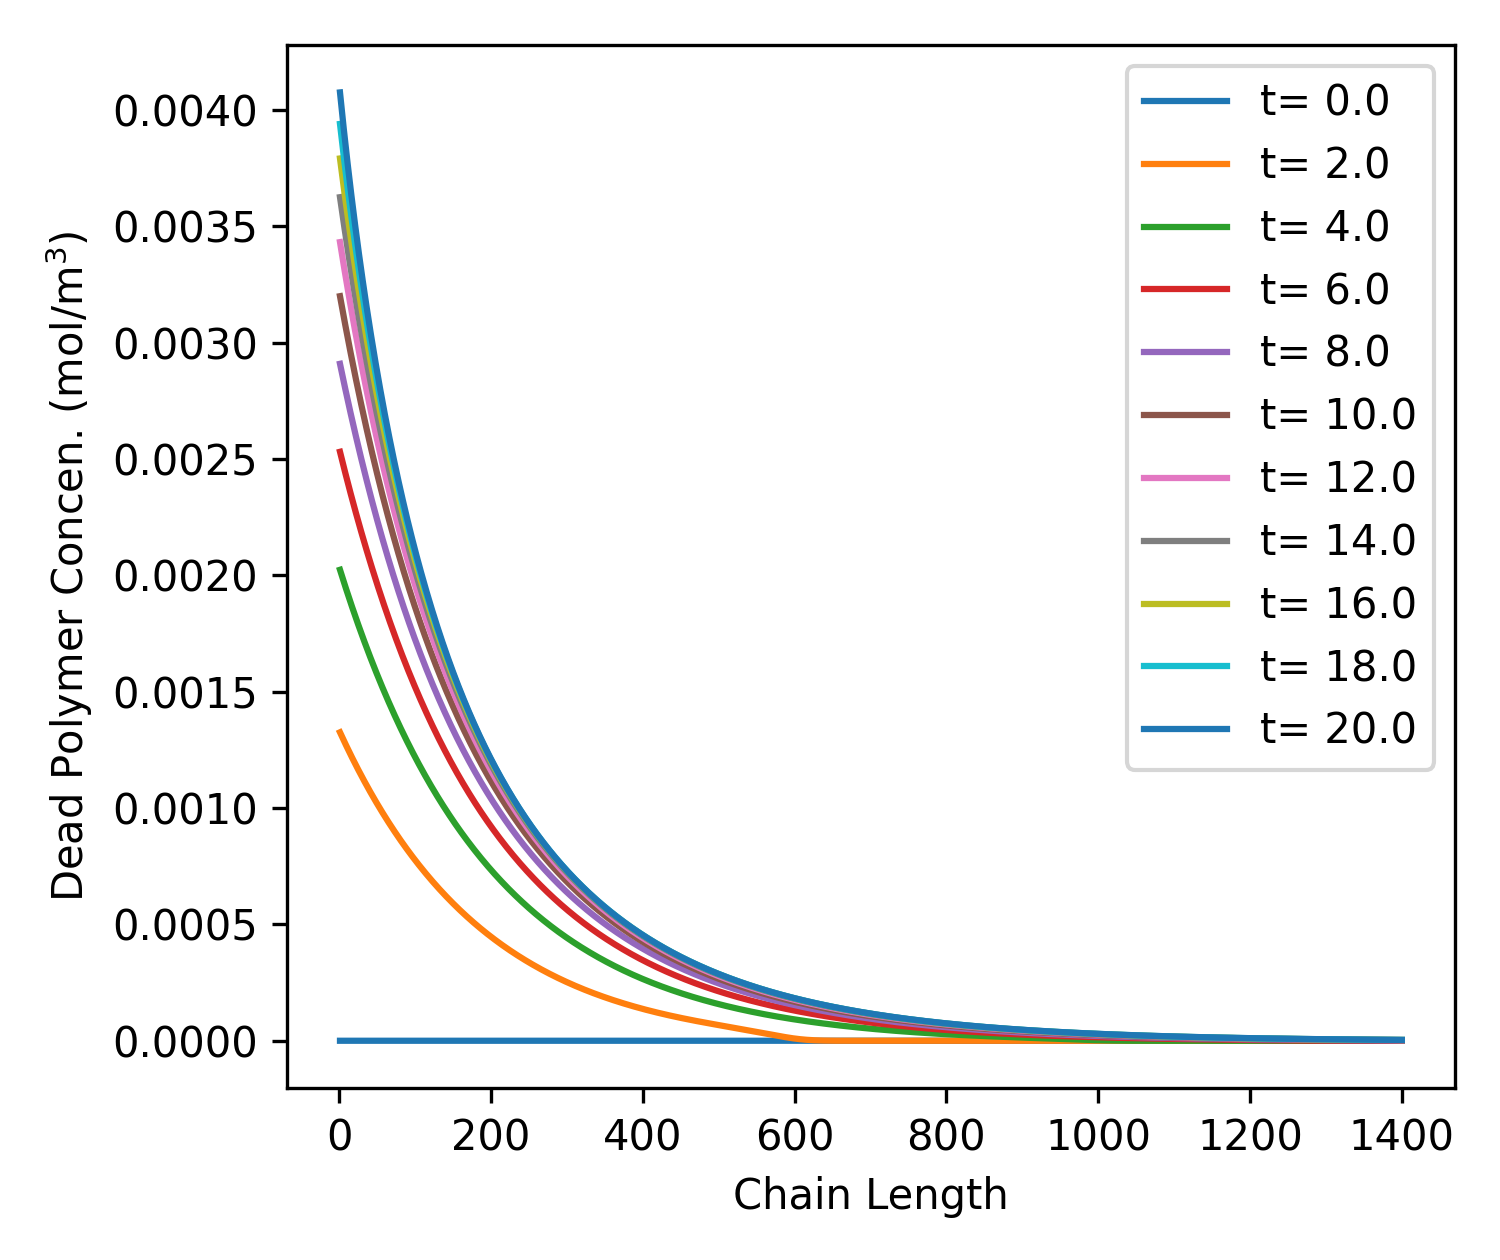
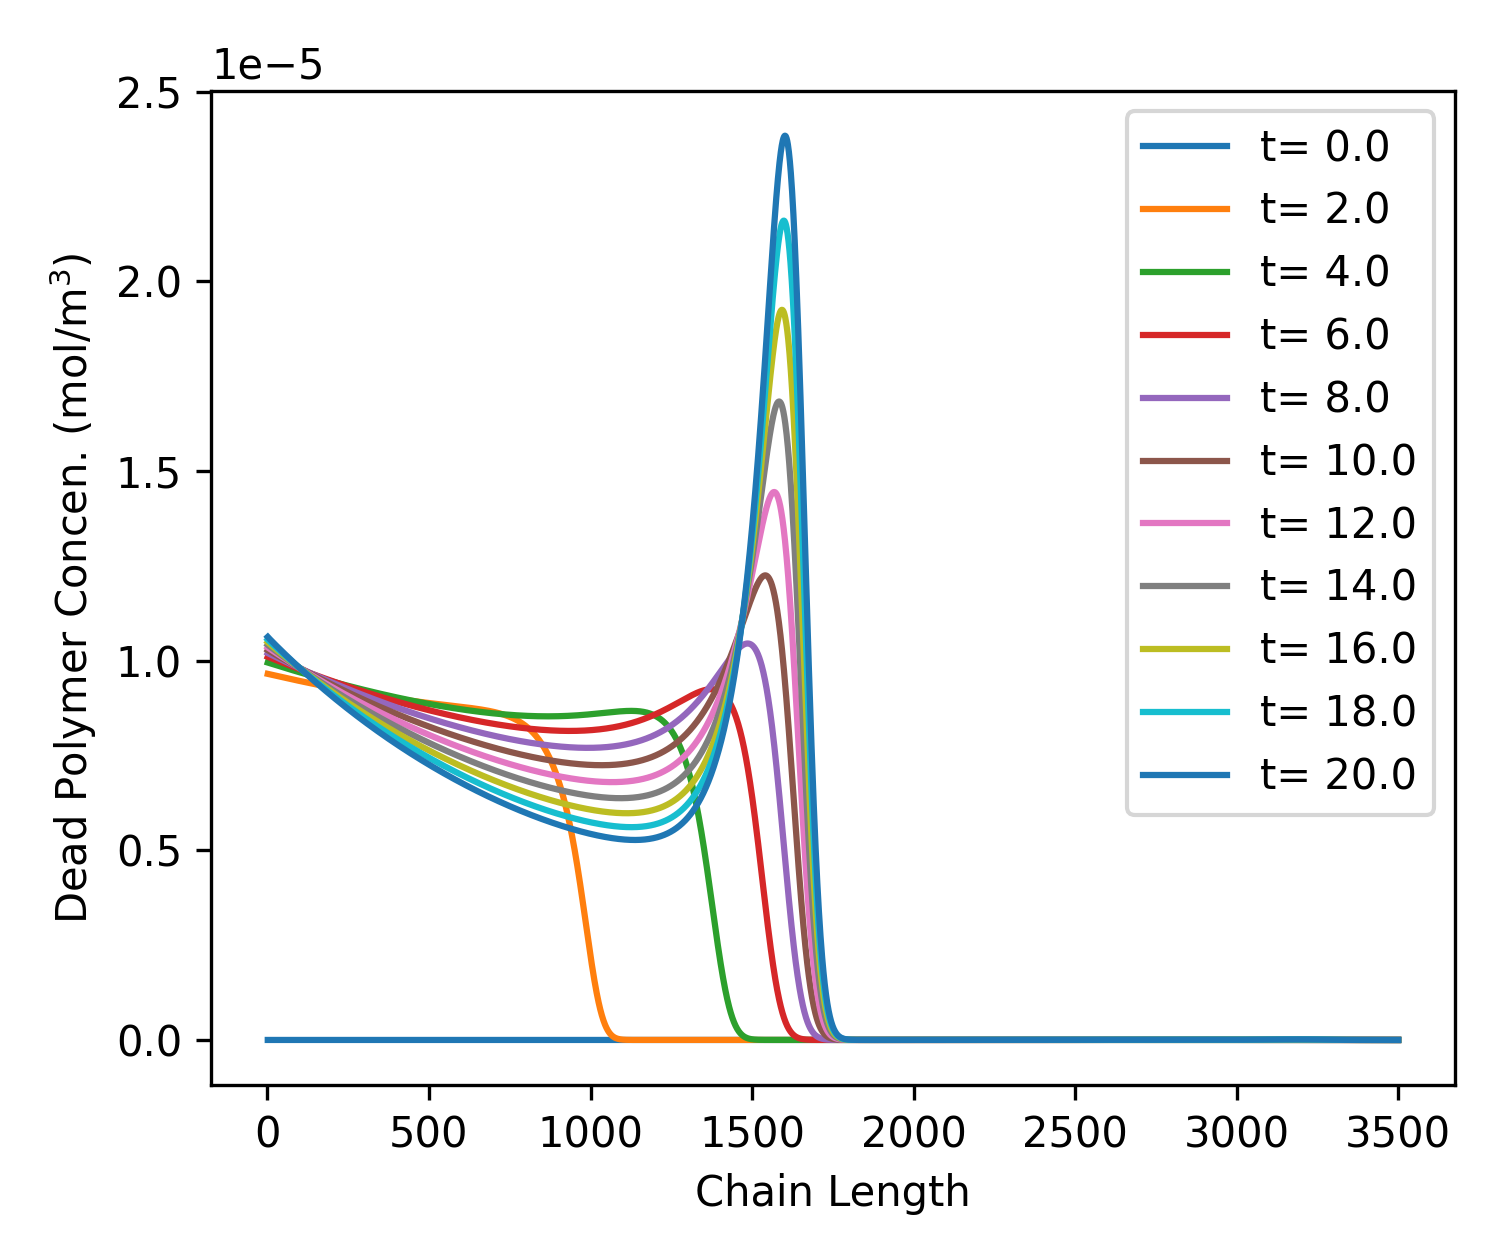
commiting

Changed region(s): [[0.0307, 0.031, 0.9813, 0.9595]]

diff --git a/DetailPolymeriation/step4_termination_P_k_condition_v02.py b/DetailPolymeriation/step4_termination_P_k_condition_v02.py
@@ -1,0 +1,134 @@
+import numpy as np
+import matplotlib.pyplot as plt 
+from scipy. integrate import odeint
+import scipy.sparse as sp
+
+def build_termination_operator(N, k_tc=1.0):
+    """Constant [N x N^2] sparse operator T with D = T @ vec(PP_mat).
+
+    C-order flatten => PP_mat[ii, jj] sits at column ii * N + jj.
+    Only the lower triangle (ii >= jj) within range (ii + jj + 2 <= N) maps to D;
+    the remaining lower-triangle entries are the 'too_high' overflow.
+    """
+    ii, jj = np.indices((N, N))
+    s = ii + jj
+
+    valid = (ii >= jj) & (s + 2 <= N)
+    rows = s[valid] + 1                         # target D bin
+    cols = ii[valid] * N + jj[valid]            # column in vec(PP_mat)
+    data = np.full(rows.shape, k_tc, dtype=float)
+
+    return sp.csr_matrix((data, (rows, cols)), shape=(N, N * N))
+
+k_d = 1.0E1
+k_p = 4E0
+k_trm = 3E-4
+k_trp = 3E-4
+k_tc = 1.0E-4
+k_td = 5.0E-4
+
+N_max = 3500
+mat_min_1 = np.diag(np.ones([N_max-1]),-1)
+#print(mat_min_1) 
+mat_N = np.arange(1,N_max+0.1)
+
+# ----- Build the operator ONCE ------------------------------------------
+T = build_termination_operator(N_max, k_tc)
+
+def model(y,t):
+    I = y[0]
+    M = y[1]
+    P = y[2:2+N_max]
+    D = y[2+N_max:]
+    P_vec = P.reshape(-1, 1)                     # [N_max, 1] column vector
+
+    lamb0 = np.sum(P)
+    #mu0 = np.sum(D)
+    mu1 = np.sum(D*mat_N)
+    # Chain transfer to monomer reaction
+    r_trm = k_trm*M*P # r_trm is a vector with size of [N_max,]
+    r_trm_sum = np.sum(r_trm)
+    # Chain transfer between dead and active polymers
+    r_trp_P = k_trp*P*mu1 # rxn consuming P_i (r_trp_P has size of [N_max,]
+    r_trp_D = k_trp*lamb0*D*mat_N
+
+    P_min_1 = mat_min_1@P # P_(i-1) {=polymer i-1} P_min_1 is also a vector with size of [N_max,]
+    #print(P_min_1)
+    dIdt = -k_d*I
+    # Monomer consumption: radical to P1 & propagation
+    dMdt = -2*k_d*I - k_p*M*lamb0 -r_trm_sum
+    
+    # Active polymer
+    # General (propagation - chain transfer to monomer)
+    dPdt = k_p*M*(P_min_1 - P) - r_trm -r_trp_P + r_trp_D + k_tc*lamb0*P - k_td*lamb0*P
+    # P1 from radical to P1
+    dPdt[0] = 2*k_d*I -k_p*M*(P[0])+ r_trm_sum -r_trp_P[0]+r_trp_D[0] + k_tc*lamb0*P[0] -k_td*lamb0*P[0]
+    
+    PP_mat = P_vec @ P_vec.T
+
+    # Dead polymer
+    dDdt = r_trm+r_trp_P -r_trp_D + T@PP_mat.reshape(-1) + k_td*lamb0*P
+    
+    dydt = np.concatenate([[dIdt, dMdt,], dPdt, dDdt])
+    return dydt
+
+I0 = 6E-2
+M0 = 190
+y0 = np.zeros([2*N_max+2,])
+y0[0] = I0
+y0[1] = M0
+
+y_ret_test = model(y0,0)
+#print(y_ret_test)
+t_dom = np.linspace(0,20,1001)
+y_res = odeint(model, y0, t_dom)
+
+P_list = []
+D_list = []
+plt.figure(figsize = [5,4.2], dpi=200)
+p_index = np.arange(1,N_max+0.5)
+for yy,tt in zip(y_res[::100,:], t_dom[::100]): 
+    pp = yy[2:N_max+2]
+    dd = yy[N_max+2 : 2*N_max+2]
+    P_list.append(pp)
+    D_list.append(dd)
+    plt.plot(p_index, pp, 
+             label='t = {0:.1f}'.format(tt))
+plt.xlabel('Chain Length')
+plt.ylabel('Active Polymer Concen. (mol/m$^{3}$)')
+plt.legend()
+plt.tight_layout()
+plt.savefig('Fig1_ActivePoly.png', dpi=300)
+#plt.show()
+
+print('D_list = ', len(D_list))
+
+plt.figure(figsize = [5,4.2], dpi=200)
+for dd,tt in zip(D_list, t_dom[::100]):
+    plt.plot(p_index, dd,
+             label='t= {0:.1f}'.format(tt))
+plt.xlabel('Chain Length')
+plt.ylabel('Dead Polymer Concen. (mol/m$^{3}$)')
+plt.legend()
+plt.tight_layout()
+plt.savefig('Fig2_DeadPoly.png',dpi=300)
+
+# Overall polymer
+P_res_mat = np.matrix(P_list)
+D_res_mat = np.matrix(D_list)
+
+PD_res = P_res_mat + D_res_mat
+
+plt.figure(figsize = [5,4.2], dpi=200)
+for pdpd, tt in zip(PD_res,t_dom[::100]):
+    plt.plot(p_index, np.array(pdpd.T[:,0]),
+             label='t= {0:.1f}'.format(tt))
+plt.xlabel('Chain Length')
+plt.ylabel('Polymer Concen. (mol/m$^{3}$)')
+plt.legend()
+plt.tight_layout()
+plt.savefig('Fig3_AllPoly.png',dpi=300)
+#plt.show()
+
+
+